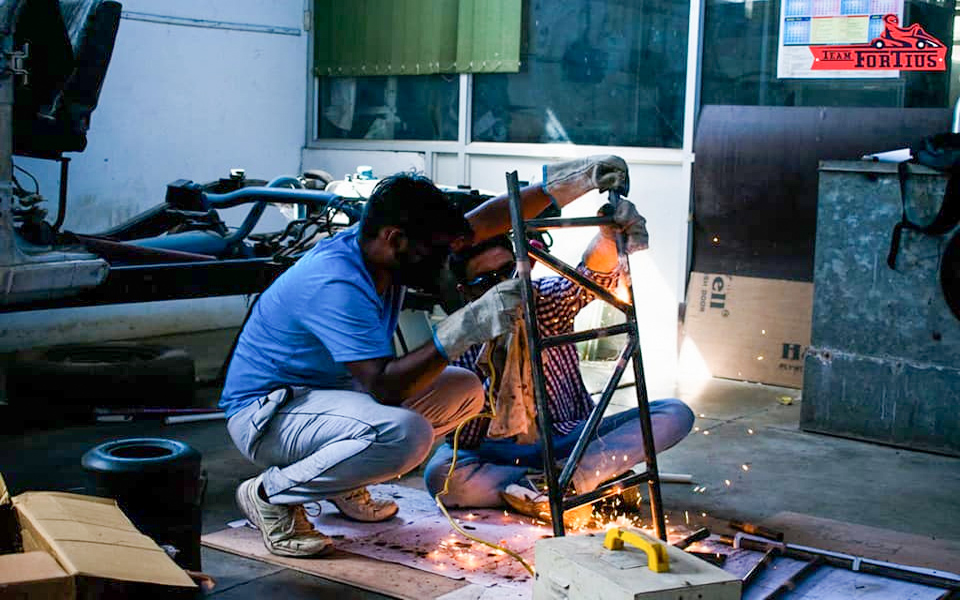
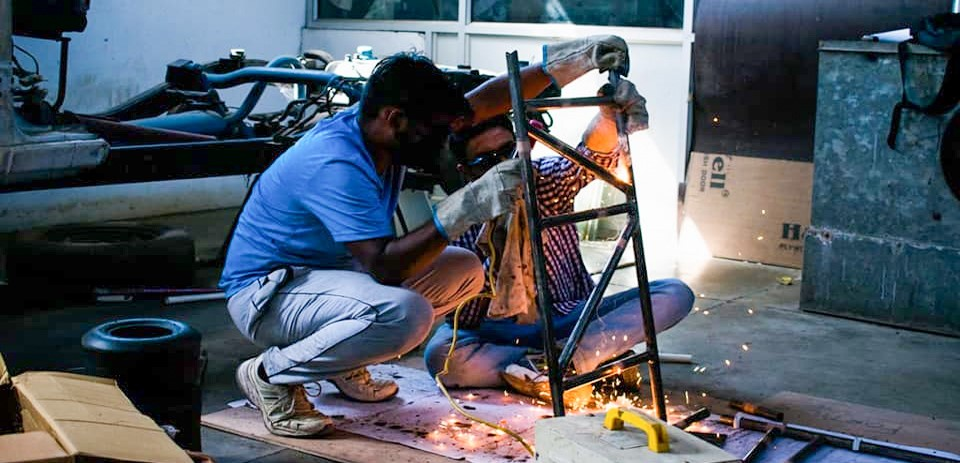
Added a new photo

diff --git a/gallery/Gallery.html b/gallery/Gallery.html
@@ -103,7 +103,7 @@
         <div class="row">
           <div class="col-lg-4 col-md-4 col-12">
             <div class="box">
-              <img src="assets/img/2c.jpg" class="img-thumbnail img-fluid">
+              <img src="assets/img/1.jpg" class="img-thumbnail img-fluid">
             </div>
           </div>
           <div class="col-lg-4 col-md-4 col-12">
